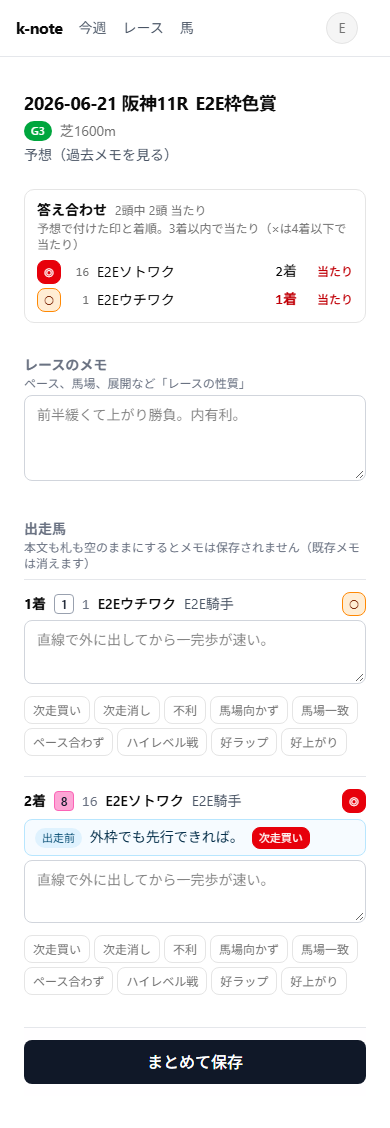
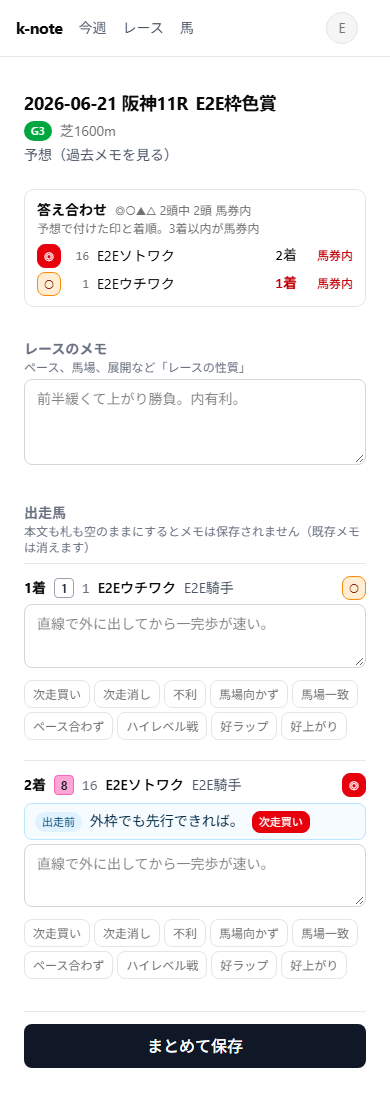
fix: 答え合わせを当たり・外れではなく馬券内・着外で言う
的中は馬券に使う言葉で、このアプリは馬券を記録していない。
印の結果は事実（馬券内・着外・未確定）で出し、× が馬券内に来たときだけ色で目立たせる。

diff --git a/src/lib/utils/answer.ts b/src/lib/utils/answer.ts
@@ -9,25 +9,36 @@
 import { MARKS, type Mark } from '$lib/schemas/note';
 
 /**
- * 1頭の答え。
+ * 1頭の結果を競馬の言い方で。
  *
- * - `hit` — 当たり。◎○▲△ は3着以内、× は4着以下
- * - `miss` — 外れ。上の逆
- * - `pending` — 着順が入っていない（結果の投入待ち・取消）。当たりとも外れとも言えない
+ * - `in` — **馬券内**（3着以内）
+ * - `out` — **着外**（4着以下）
+ * - `pending` — **未確定**。着順が入っていない（結果の投入待ち・取消）
  *
- * 「3着以内」で切るのは、印の意味が「馬券に絡むか」だから。◎が2着でも
- * 本命としては仕事をしている。1着かどうかは着順そのものを見れば分かる。
+ * 「当たり／外れ」とは言わない。競馬で「的中」は買った馬券に使う言葉で、
+ * このアプリは馬券を記録していない。印に的中と付けると馬券が当たったように読める。
+ * 出すのは事実（馬券内か着外か）だけにして、印と並べて読ませる。
  */
-export type AnswerVerdict = 'hit' | 'miss' | 'pending';
+export type Placing = 'in' | 'out' | 'pending';
 
-/** 3着以内を「馬券に絡んだ」とみなす。 */
-const PLACED = 3;
+/** 3着以内を馬券内とみなす（複勝圏）。 */
+const IN_THE_MONEY = 3;
 
-export function answerVerdict(mark: Mark, finishPosition: number | null): AnswerVerdict {
+export function placing(finishPosition: number | null): Placing {
 	if (finishPosition === null) return 'pending';
-	const placed = finishPosition <= PLACED;
-	// × は「来ない」と読んだ印なので、当たり外れが逆になる。
-	return (mark === '×' ? !placed : placed) ? 'hit' : 'miss';
+	return finishPosition <= IN_THE_MONEY ? 'in' : 'out';
+}
+
+/**
+ * 印のとおりに走ったか。色の強弱にだけ使う。
+ *
+ * ◎○▲△ は「馬券に絡む」と読んだ印なので馬券内なら読みどおり、
+ * × は「来ない」と読んだ印なので着外なら読みどおり。未確定なら null。
+ * 言葉は馬券内／着外のままで、× が馬券内に来たとき（消した馬に来られた）だけ目立たせる。
+ */
+export function asMarked(mark: Mark, p: Placing): boolean | null {
+	if (p === 'pending') return null;
+	return mark === '×' ? p === 'out' : p === 'in';
 }
 
 export type AnswerSource = {
@@ -36,10 +47,14 @@ export type AnswerSource = {
 	horseNumber: number | null;
 };
 
-export type Answer<T extends AnswerSource> = T & { mark: Mark; verdict: AnswerVerdict };
+export type Answer<T extends AnswerSource> = T & {
+	mark: Mark;
+	placing: Placing;
+	asMarked: boolean | null;
+};
 
 /**
- * 印を付けた馬だけを、印の順（◎ → ×）に並べて答えを添える。
+ * 印を付けた馬だけを、印の順（◎ → ×）に並べて結果を添える。
  *
  * 画面の出走馬は着順で並ぶので、そのまま印を拾うと「◎がどこにいるか」を探すことになる。
  * 答え合わせで先に知りたいのは本命がどうだったかなので、印の順に並べ直す。
@@ -48,10 +63,28 @@ export type Answer<T extends AnswerSource> = T & { mark: Mark; verdict: AnswerVe
 export function answerCheck<T extends AnswerSource>(rows: T[]): Answer<T>[] {
 	return rows
 		.filter((r): r is T & { mark: Mark } => r.mark !== null)
-		.map((r) => ({ ...r, verdict: answerVerdict(r.mark, r.finishPosition) }))
+		.map((r) => {
+			const p = placing(r.finishPosition);
+			return { ...r, placing: p, asMarked: asMarked(r.mark, p) };
+		})
 		.sort(
 			(a, b) =>
 				MARKS.indexOf(a.mark) - MARKS.indexOf(b.mark) ||
 				(a.horseNumber ?? Infinity) - (b.horseNumber ?? Infinity)
 		);
+}
+
+/**
+ * 見出しの集計。「◎○▲△ 3頭中 2頭 馬券内」。
+ *
+ * 数えるのは**着順が決まった、× 以外の印**だけ。× は「来ない」と読んだ印なので
+ * 馬券内の数に混ぜると意味が逆になる。未確定の馬は分母に入れない。
+ * 数える馬がいなければ null（見出しに何も添えない）。
+ */
+export function inTheMoneyCount(
+	answers: Answer<AnswerSource>[]
+): { in: number; of: number } | null {
+	const decided = answers.filter((a) => a.mark !== '×' && a.placing !== 'pending');
+	if (decided.length === 0) return null;
+	return { in: decided.filter((a) => a.placing === 'in').length, of: decided.length };
 }

diff --git a/src/lib/utils/answer.spec.ts b/src/lib/utils/answer.spec.ts
@@ -1,27 +1,38 @@
 import { describe, expect, it } from 'vitest';
 import type { Mark } from '$lib/schemas/note';
-import { answerCheck, answerVerdict } from './answer';
+import { answerCheck, asMarked, inTheMoneyCount, placing } from './answer';
 
-describe('answerVerdict', () => {
-	// 境界は3着。◎が2着でも本命としては仕事をしている。
-	it('◎○▲△ は3着以内なら当たり、4着以下なら外れ', () => {
+describe('placing', () => {
+	// 境界は3着（複勝圏）。
+	it('3着以内は馬券内、4着以下は着外', () => {
+		expect(placing(1)).toBe('in');
+		expect(placing(3)).toBe('in');
+		expect(placing(4)).toBe('out');
+	});
+
+	// 着順が入っていない馬を着外と出すと、結果の投入待ちなのに負けたように読める。
+	it('着順が無ければ未確定', () => {
+		expect(placing(null)).toBe('pending');
+	});
+});
+
+describe('asMarked', () => {
+	it('◎○▲△ は馬券内なら読みどおり', () => {
 		for (const mark of ['◎', '○', '▲', '△'] as Mark[]) {
-			expect(answerVerdict(mark, 1)).toBe('hit');
-			expect(answerVerdict(mark, 3)).toBe('hit');
-			expect(answerVerdict(mark, 4)).toBe('miss');
+			expect(asMarked(mark, 'in')).toBe(true);
+			expect(asMarked(mark, 'out')).toBe(false);
 		}
 	});
 
-	// × は「来ない」と読んだ印。3着以内に来たら読みが外れている。
-	it('× は当たり外れが逆になる', () => {
-		expect(answerVerdict('×', 3)).toBe('miss');
-		expect(answerVerdict('×', 4)).toBe('hit');
+	// × は「来ない」と読んだ印。馬券内に来たら読み違い。
+	it('× は着外なら読みどおり、馬券内なら読み違い', () => {
+		expect(asMarked('×', 'out')).toBe(true);
+		expect(asMarked('×', 'in')).toBe(false);
 	});
 
-	// 着順が入っていない馬を「外れ」と出すと、結果の投入待ちなのに予想が外れたように読める。
-	it('着順が無ければ当たりとも外れとも言わない', () => {
-		expect(answerVerdict('◎', null)).toBe('pending');
-		expect(answerVerdict('×', null)).toBe('pending');
+	it('未確定なら読みどおりとも読み違いとも言わない', () => {
+		expect(asMarked('◎', 'pending')).toBeNull();
+		expect(asMarked('×', 'pending')).toBeNull();
 	});
 });
 
@@ -48,7 +59,8 @@ describe('answerCheck', () => {
 		]);
 
 		expect(answers.map((a) => a.mark)).toEqual(['◎', '○', '▲', '△', '×']);
-		expect(answers.map((a) => a.verdict)).toEqual(['miss', 'hit', 'miss', 'hit', 'miss']);
+		expect(answers.map((a) => a.placing)).toEqual(['out', 'in', 'out', 'in', 'in']);
+		expect(answers.map((a) => a.asMarked)).toEqual([false, true, false, true, false]);
 	});
 
 	it('同じ印が複数あれば馬番の順。馬番が無い馬は後ろ', () => {
@@ -65,7 +77,32 @@ describe('answerCheck', () => {
 			horseNumber: 4,
 			finishPosition: 2,
 			horseName: '馬4',
-			verdict: 'hit'
+			placing: 'in',
+			asMarked: true
 		});
+	});
+});
+
+describe('inTheMoneyCount', () => {
+	it('着順が決まった ◎○▲△ のうち、馬券内の頭数を数える', () => {
+		const answers = answerCheck([
+			row('◎', 1, 9),
+			row('○', 2, 1),
+			row('▲', 3, 3),
+			row('△', 4, null)
+		]);
+
+		expect(inTheMoneyCount(answers)).toEqual({ in: 2, of: 3 });
+	});
+
+	// × を馬券内の数に混ぜると、消した馬に来られたことが「成績」に数えられてしまう。
+	it('× は数えない', () => {
+		const answers = answerCheck([row('◎', 1, 2), row('×', 2, 1)]);
+
+		expect(inTheMoneyCount(answers)).toEqual({ in: 1, of: 1 });
+	});
+
+	it('数える馬がいなければ null', () => {
+		expect(inTheMoneyCount(answerCheck([row('×', 1, 5), row('◎', 2, null)]))).toBeNull();
 	});
 });

diff --git a/src/lib/components/AnswerCheck.svelte b/src/lib/components/AnswerCheck.svelte
@@ -1,9 +1,9 @@
 <script lang="ts">
 	import MarkBadge from '$lib/components/MarkBadge.svelte';
-	import type { Answer, AnswerSource, AnswerVerdict } from '$lib/utils/answer';
+	import { inTheMoneyCount, type Answer, type AnswerSource, type Placing } from '$lib/utils/answer';
 
 	/**
-	 * ふりかえり画面の答え合わせ。印を付けた馬を印の順に並べ、着順と当たり外れを出す。
+	 * ふりかえり画面の答え合わせ。印を付けた馬を印の順に並べ、着順と馬券内／着外を出す。
 	 *
 	 * 並べ替えと判定は `answerCheck` が持つ。ここは見せ方だけ。
 	 * 印を1つも付けていないレースでは何も出さない（呼び出し側で空を渡す）。
@@ -14,27 +14,39 @@
 		answers: Answer<AnswerSource & { entryId: string; horseName: string }>[];
 	} = $props();
 
-	const VERDICT: Record<AnswerVerdict, { label: string; class: string }> = {
-		hit: { label: '当たり', class: 'text-red-700 font-medium' },
-		miss: { label: '外れ', class: 'text-muted-foreground' },
-		pending: { label: '結果待ち', class: 'text-muted-foreground' }
+	const LABEL: Record<Placing, string> = {
+		in: '馬券内',
+		out: '着外',
+		pending: '未確定'
 	};
 
-	const hits = $derived(answers.filter((a) => a.verdict === 'hit').length);
-	const decided = $derived(answers.filter((a) => a.verdict !== 'pending').length);
+	/**
+	 * 言葉は事実（馬券内／着外）のまま、色で読みどおりかを出す。
+	 * - ◎○▲△ が馬券内 — 赤（読みどおり）
+	 * - × が馬券内 — 琥珀（消した馬に来られた。読み違いとして目立たせる）
+	 * - それ以外 — 地の色
+	 */
+	const tone = (a: (typeof answers)[number]) =>
+		a.placing !== 'in'
+			? 'text-muted-foreground'
+			: a.mark === '×'
+				? 'font-medium text-amber-700'
+				: 'font-medium text-red-700';
+
+	const count = $derived(inTheMoneyCount(answers));
 </script>
 
 {#if answers.length > 0}
 	<section aria-labelledby="answer-check-heading" class="rounded-lg border px-3 py-2.5">
 		<div class="flex flex-wrap items-baseline gap-x-2">
 			<h2 id="answer-check-heading" class="text-sm font-semibold">答え合わせ</h2>
-			{#if decided > 0}
-				<span class="text-xs text-muted-foreground">{decided}頭中 {hits}頭 当たり</span>
+			{#if count}
+				<span class="text-xs text-muted-foreground">
+					◎○▲△ {count.of}頭中 {count.in}頭 馬券内
+				</span>
 			{/if}
 		</div>
-		<p class="text-xs text-muted-foreground">
-			予想で付けた印と着順。3着以内で当たり（×は4着以下で当たり）
-		</p>
+		<p class="text-xs text-muted-foreground">予想で付けた印と着順。3着以内が馬券内</p>
 		<ol class="mt-2 grid gap-1">
 			{#each answers as a (a.entryId)}
 				<li class="flex items-center gap-2 text-sm">
@@ -47,8 +59,11 @@
 						<span class="font-mono {a.finishPosition === 1 ? 'font-bold text-red-700' : ''}">
 							{a.finishPosition ? `${a.finishPosition}着` : '—'}
 						</span>
-						<span class="w-12 text-right text-xs {VERDICT[a.verdict].class}">
-							{VERDICT[a.verdict].label}
+						<span
+							class="w-12 text-right text-xs {tone(a)}"
+							title={a.mark === '×' && a.placing === 'in' ? '消した馬が馬券内' : undefined}
+						>
+							{LABEL[a.placing]}
 						</span>
 					</span>
 				</li>

diff --git a/src/lib/components/AnswerCheck.svelte.spec.ts b/src/lib/components/AnswerCheck.svelte.spec.ts
@@ -19,7 +19,7 @@ const items = (root: HTMLElement) =>
 	[...root.querySelectorAll('li')].map((li) => li.textContent?.replace(/\s+/g, ' ').trim());
 
 describe('AnswerCheck', () => {
-	it('印の順に、着順と当たり外れを並べる', async () => {
+	it('印の順に、着順と馬券内／着外を並べる', async () => {
 		const screen = render(AnswerCheck, {
 			answers: answers([
 				[null, 1, 1],
@@ -31,23 +31,50 @@ describe('AnswerCheck', () => {
 
 		await expect.element(screen.getByRole('heading', { name: '答え合わせ' })).toBeInTheDocument();
 		expect(items(screen.container)).toEqual([
-			'◎ 5 ホース5 9着 外れ',
-			'○ 3 ホース3 1着 当たり',
-			'× 7 ホース7 2着 外れ'
+			'◎ 5 ホース5 9着 着外',
+			'○ 3 ホース3 1着 馬券内',
+			'× 7 ホース7 2着 馬券内'
 		]);
 	});
 
-	it('着順が決まった馬だけで当たりの数を数える', async () => {
+	// 「当たり／外れ」「的中」は使わない。的中は馬券に使う言葉で、このアプリは馬券を記録していない。
+	it('当たり・外れ・的中とは言わない', () => {
+		const screen = render(AnswerCheck, {
+			answers: answers([
+				['◎', 1, 1],
+				['○', 2, 9]
+			])
+		});
+
+		expect(screen.container.textContent).not.toMatch(/当たり|外れ|的中/);
+	});
+
+	it('着順が決まった ◎○▲△ だけで馬券内の頭数を数える', async () => {
 		const screen = render(AnswerCheck, {
 			answers: answers([
 				['◎', 1, 2],
 				['○', 2, 5],
-				['▲', 3, null]
+				['▲', 3, null],
+				['×', 4, 1]
 			])
 		});
 
-		await expect.element(screen.getByText('2頭中 1頭 当たり')).toBeInTheDocument();
-		expect(items(screen.container)).toContain('▲ 3 ホース3 — 結果待ち');
+		await expect.element(screen.getByText('◎○▲△ 2頭中 1頭 馬券内')).toBeInTheDocument();
+		expect(items(screen.container)).toContain('▲ 3 ホース3 — 未確定');
+	});
+
+	// 消した馬に来られたのは読み違い。言葉は「馬券内」のまま、色で目立たせる。
+	it('× が馬券内なら、読みどおりの馬券内とは別の色で出す', async () => {
+		const screen = render(AnswerCheck, {
+			answers: answers([
+				['◎', 1, 1],
+				['×', 2, 2]
+			])
+		});
+
+		await expect.element(screen.getByTitle('消した馬が馬券内')).toHaveClass(/text-amber-700/);
+		const labels = [...screen.container.querySelectorAll('li span.w-12')];
+		expect(labels[0]?.className).toMatch(/text-red-700/);
 	});
 
 	// 印を付けていないレースに空の枠が出ると、何かが壊れているように見える。
